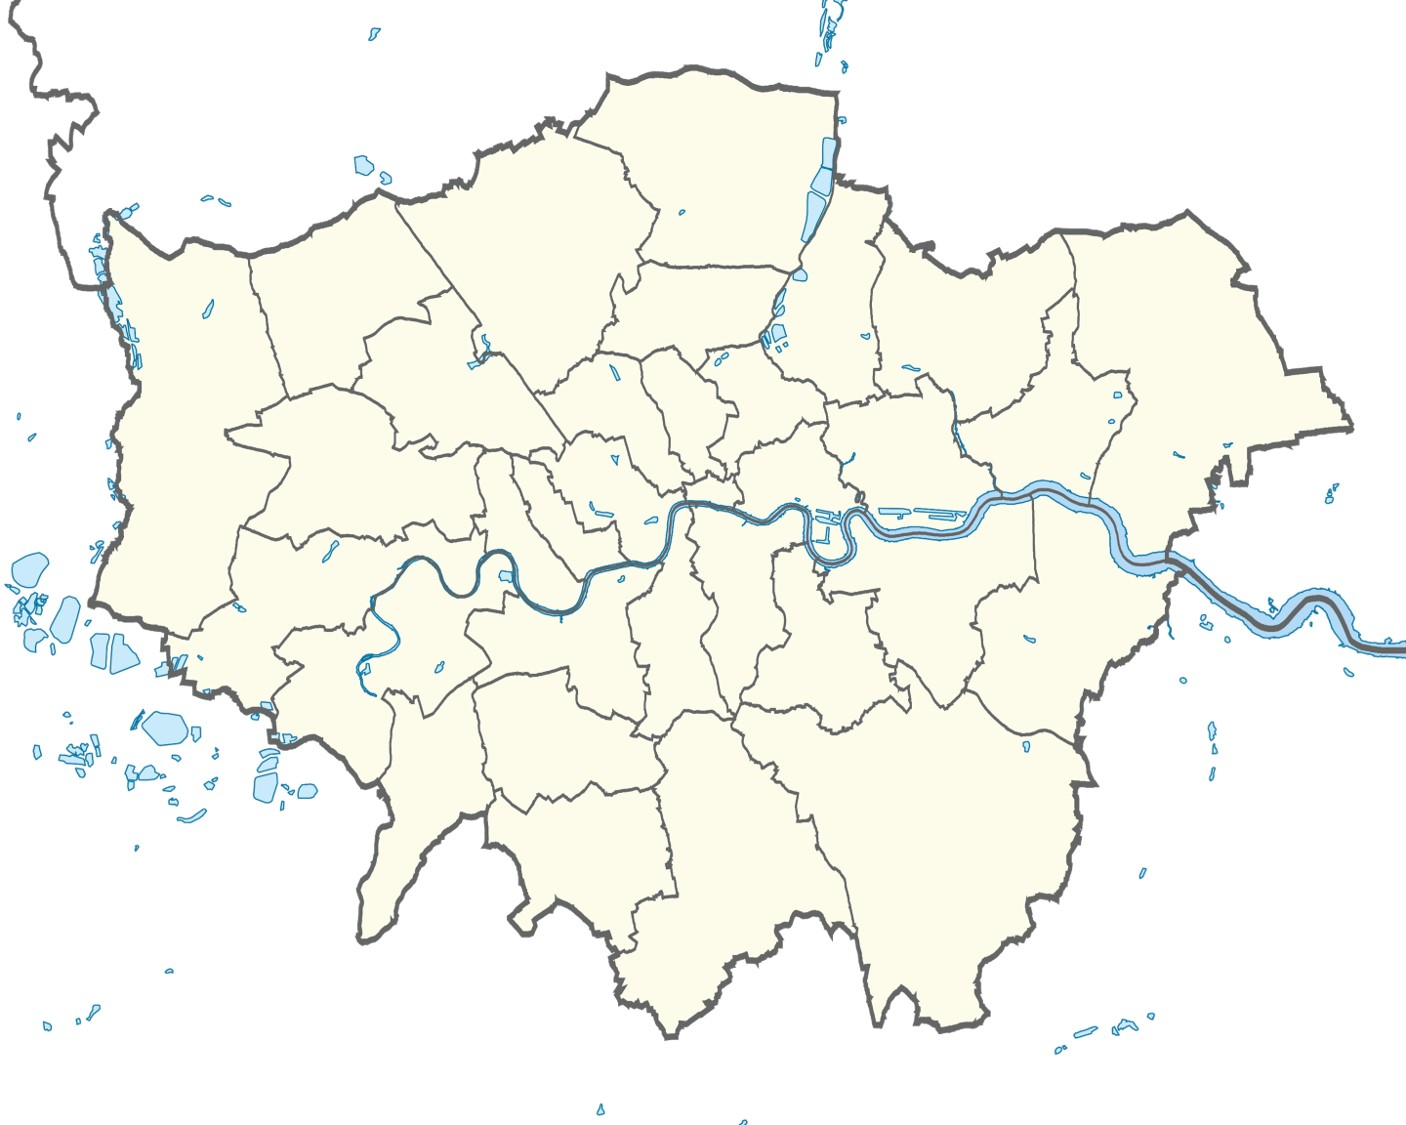
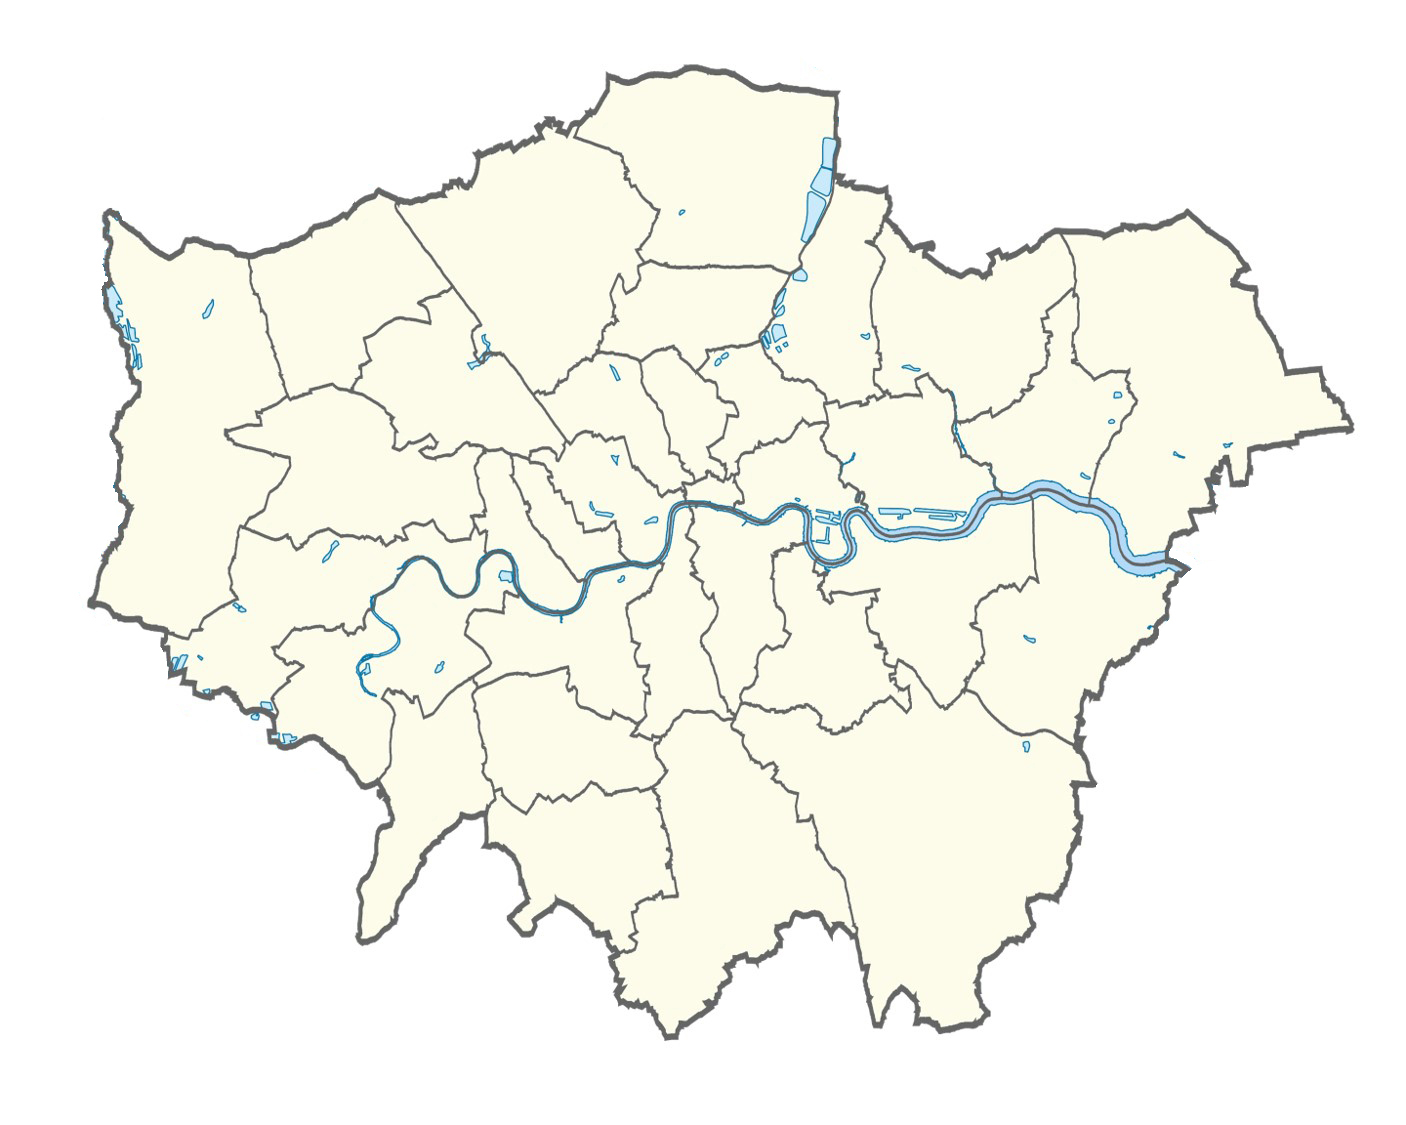
bubble chart update

diff --git a/index.html b/index.html
@@ -13,6 +13,10 @@
 
         z-index: -1;
     }
+    #bg {
+    background-image: url(background2.jpg);
+
+    }
     </style>
 </head>
 <body>
@@ -24,7 +28,7 @@
           <p>Lorem ipsum dolor sit amet, consectetur adipiscing elit. Ut ornare velit at est fringilla, eu ultricies mauris bibendum. </p>
         </div>
         <div>
-          <h2>Santander Bike Usage</h2>
+          <h2>Average Santander Bike Usage against Weather Conditions</h2>
           <p> This graph shows the average Santander Bike usage over time</p>
           <canvas id="line-chart" width="800" height="400"></canvas>
             <script>
@@ -60,10 +64,11 @@
             </script>
         </div>
         <div>
-          <h2>Santander Bike Usage</h2>
+          <h2>Santander Bike Usage in Different Locations</h2>
           <p> This graph shows some weather and Santander Bike dock usage in London</p>
-          <img src="background.jpg" alt="Map of London" width="85%" height="125%" >
-          <canvas id="bubble-chart" width="594" height="475"></canvas>
+        </div>
+        <div id="bg">
+          <canvas id="bubble-chart" width="600px" height="320px"></canvas>
             <script>
                 new Chart(document.getElementById("bubble-chart"), {
 
@@ -145,7 +150,13 @@
                     }
                 });
             </script>
-          </div>
+        </div>
+        <div>
+          <h2>Santander Bike Usage</h2>
+          <p> This graph shows the average Santander Bike usage over time</p>
+        </div>
+
+        </div>
       </div>
     </div>
 
